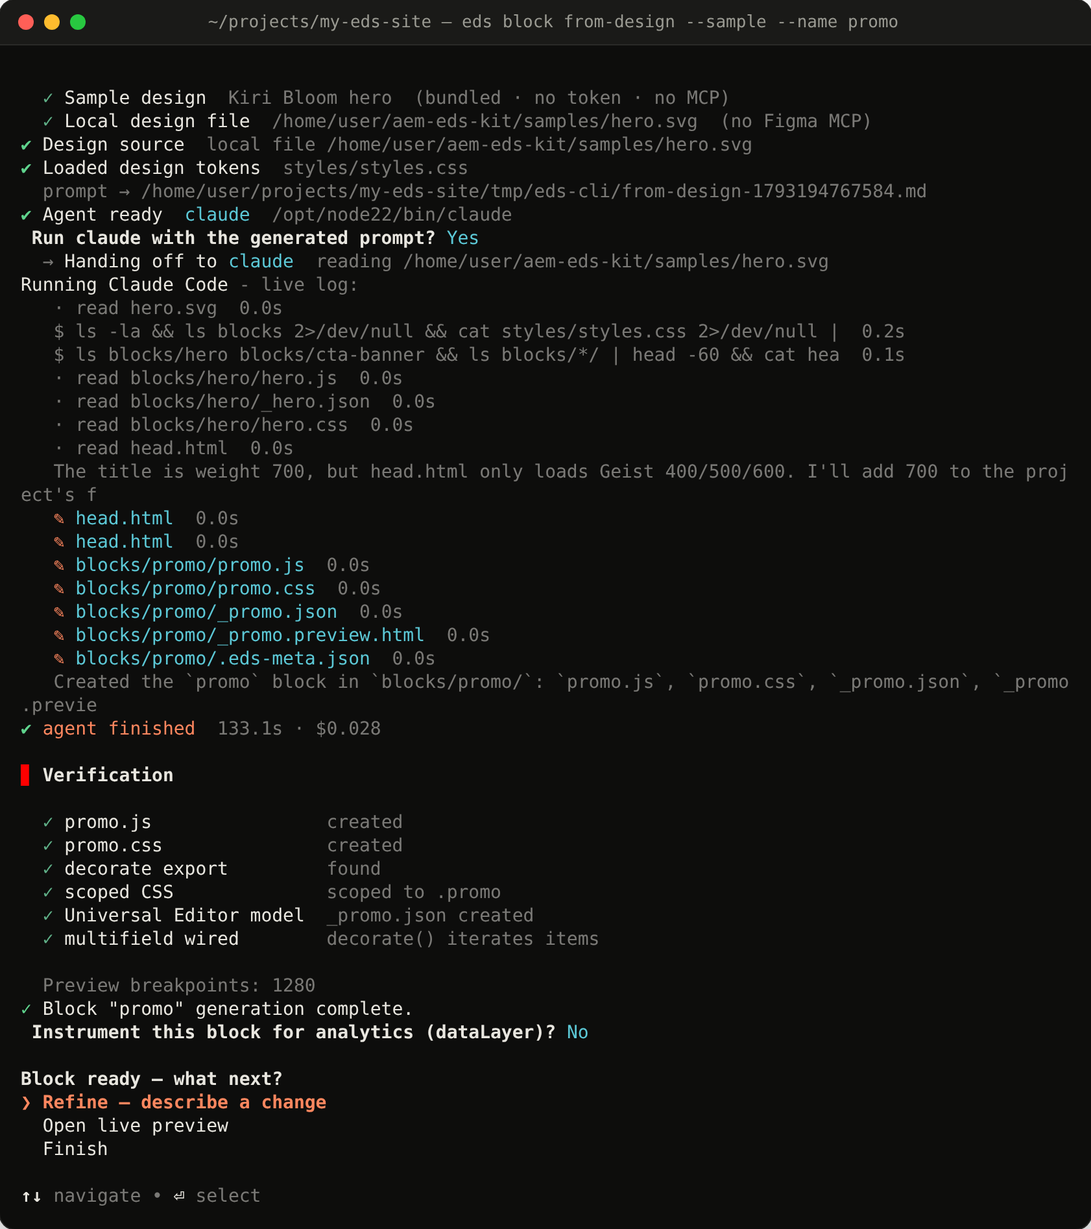
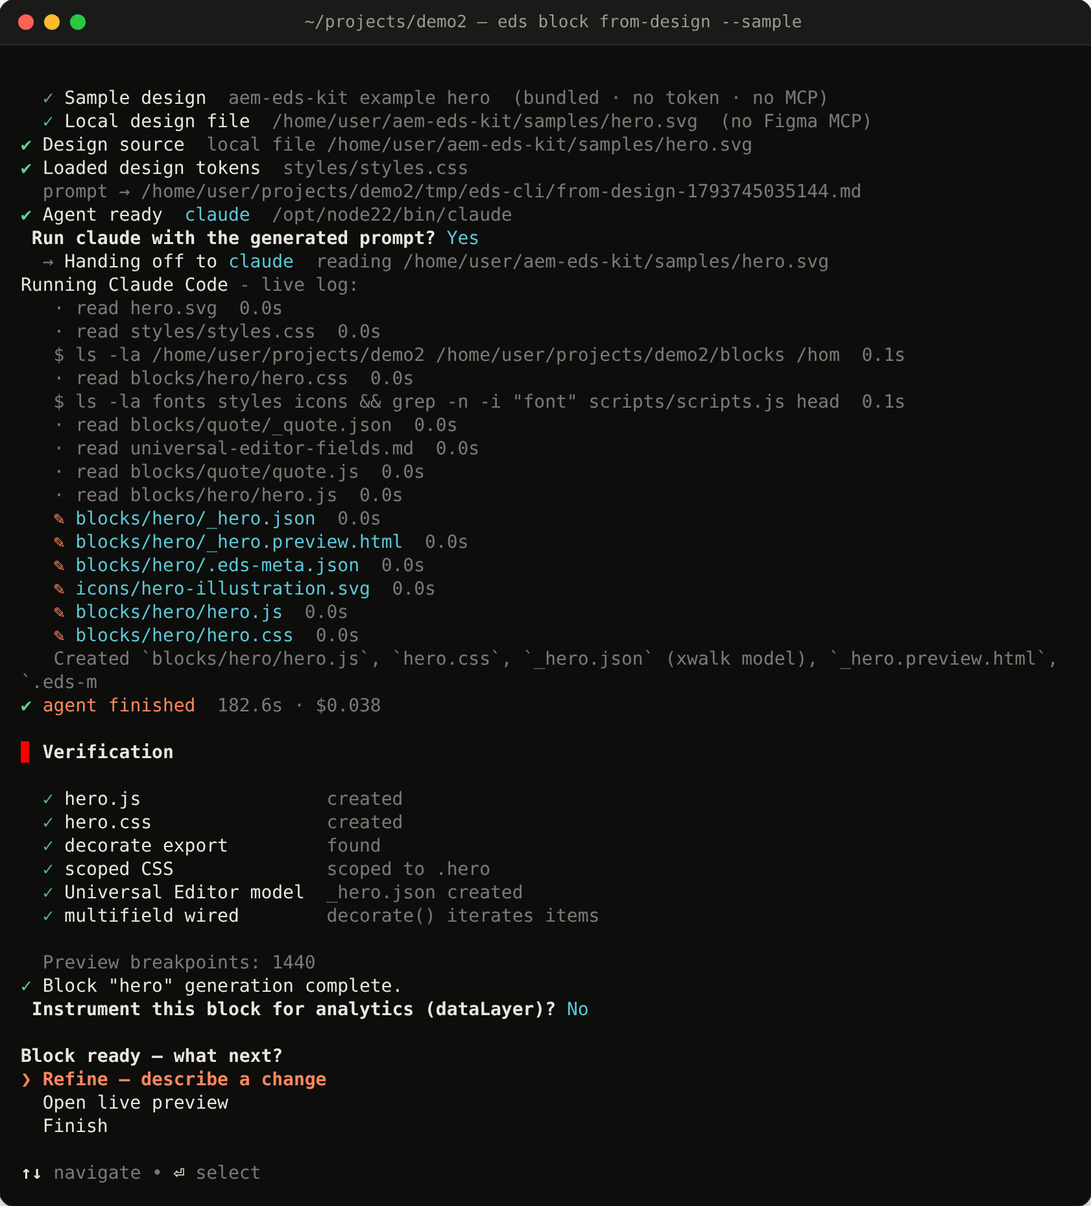
feat(sample): --sample is the example file's hero; new roadmap; README for npm (EDS-073)
- samples/hero.svg is now the hero of the project's own example design (the
  same copy, tokens and 1440px geometry as examples/figma-kit and
  site/example/), with role-named groups, instead of the third-party Kiri
  Bloom hero. The old file wasn't valid XML: its comment held `--sample`.
  Kiri Bloom is gone from the CLI, README, docs and launch kit; the README
  points at the example page / Figma plugin instead of the Kiri Bloom file.
- Roadmap (site + README) rewritten in plain words: Next / Then / Later.
- README: a tighter intro (web pages, eds new), a 4-line quick start, a
  contents row, a "new project" bullet; the from-design screenshot is
  re-recorded with the new sample.

Fixes #73

Claude-Session: https://claude.ai/code/session_01GUraVcAvpEc1ropGcZejs3

diff --git a/site/index.html b/site/index.html
@@ -45,7 +45,7 @@
         "description": "Open-source CLI for AEM Edge Delivery Services: start from the latest boilerplate, scaffold blocks, migrate classic AEM components, generate blocks from Figma, Framer or Google Stitch with Claude Code, Cursor, Codex or a local model, build Universal Editor models, add JSON-LD and dataLayer analytics, and generate page templates for DA, Google Docs, SharePoint and Universal Editor.",
         "url": "https://piotrgodycki.github.io/aem-eds-kit/",
         "downloadUrl": "https://www.npmjs.com/package/aem-eds-kit",
-        "softwareVersion": "0.4.56",
+        "softwareVersion": "0.4.57",
         "license": "https://opensource.org/licenses/MIT",
         "offers": { "@type": "Offer", "price": "0", "priceCurrency": "USD" },
         "author": { "@type": "Person", "name": "Piotr Godycki" },
@@ -493,20 +493,32 @@ If everything completes, tell the user they are set up and what to do next:
     <div class="container section">
       <div class="section-header">
         <span class="eyebrow">06 / Roadmap</span>
-        <h2 class="h2">Where it's heading.</h2>
+        <h2 class="h2">What's coming.</h2>
       </div>
       <div class="roadmap">
         <div class="road-col">
-          <span class="road-ver">Design sources</span>
-          <span class="road-desc">Figma (REST/MCP), Framer and Google Stitch (headless-Chromium scrape) are wired; next is a deeper scrape extractor (multi-breakpoint, variant detection) and a generic <code>eds setup</code> in place of <code>eds figma setup</code>. Canva/Sketch stay on the local-export path.</span>
+          <span class="road-ver">Next</span>
+          <ul class="road-list">
+            <li><strong>Previews that look like the design.</strong> The preview gets the design's real copy and images, so it matches 1:1 - the block itself still reads authored content.</li>
+            <li><strong>A self-check against the design.</strong> Render the block, compare it with the Figma frame or the page, and fix what differs in a second pass.</li>
+            <li><strong>Every breakpoint.</strong> Read the design at mobile, tablet and desktop widths, not just one.</li>
+          </ul>
         </div>
         <div class="road-col">
-          <span class="road-ver">Image-only designs</span>
-          <span class="road-desc">A plain PNG/JPG already works (or a local vision model); next is measuring it - a bitmap has no structured layout, so pixel-perfect is harder than from Figma or a scraped page.</span>
+          <span class="road-ver">Then</span>
+          <ul class="road-list">
+            <li><strong>Whole screens in one go.</strong> Every section of a frame or page becomes a block, plus the page that puts them together.</li>
+            <li><strong>Blocks that follow the design.</strong> When the design changes, update the existing block instead of regenerating it.</li>
+            <li><strong>Design tokens for the project.</strong> Figma Variables become the CSS custom properties in <code>styles.css</code>.</li>
+          </ul>
         </div>
         <div class="road-col">
-          <span class="road-ver">Tokens, sync &amp; CI</span>
-          <span class="road-desc">Design variables → CSS custom properties, incremental re-sync of a block (<code>--update</code>), a headless MCP client for CI/CD, plus <code>eds lighthouse</code>, <code>eds rum</code> and <code>eds migrate page</code>.</span>
+          <span class="road-ver">Later</span>
+          <ul class="road-list">
+            <li><strong>Deeper AEM migration.</strong> HTL logic ported to <code>decorate()</code>, CSS taken from the rendered page, whole pages migrated.</li>
+            <li><strong>Performance in the loop.</strong> Lighthouse and real-user data (RUM) checked for every block.</li>
+            <li><strong>Your idea here.</strong> <a href="https://github.com/piotrgodycki/aem-eds-kit/issues">Open an issue</a> - the roadmap follows what people need.</li>
+          </ul>
         </div>
       </div>
     </div>

diff --git a/site/changelog.html b/site/changelog.html
@@ -57,6 +57,7 @@
       <h2><a href="https://github.com/piotrgodycki/aem-eds-kit/commits/main">Unreleased</a> <span class="cl-date">on main, not yet on npm</span></h2>
       <h3>Changed</h3>
       <ul>
+        <li><strong><code>--sample</code> is the project's own example hero</strong> (<a href="https://github.com/piotrgodycki/aem-eds-kit/issues/73">EDS-073</a>), the same design as <code>examples/figma-kit</code> and <code>site/example/</code>, instead of the third-party "Kiri Bloom" hero (whose SVG wasn't valid XML: its comment held <code>--sample</code>). New roadmap (Next / Then / Later) on the site and in the README; the README opens with a 4-line quick start and a contents row.</li>
         <li><strong>Docs and site match the CLI again</strong> (<a href="https://github.com/piotrgodycki/aem-eds-kit/issues/63">EDS-063</a>). README screenshots of real runs (the menu, <code>eds new</code>, <code>block from-design</code>, <code>migrate component</code>, <code>block test</code> / <code>check</code>, the preview harness) and design-vs-block images; <code>docs.html</code> gains <code>block test</code> / <code>block check</code>, local models and configuration sections plus the missing flags; the site covers <code>eds new</code>, local models, AEMaaCS proxy / Classic UI migration and the real Figma REST limits.</li>
         <li><strong>CHANGELOG split into the versions published on npm</strong> (0.4.22, 0.4.25, 0.4.26, 0.4.48), worked out from the CHANGELOG inside each npm package. Version links point at npm; the GitHub release links never existed.</li>
       </ul>

diff --git a/src/commands/block/from-design.ts b/src/commands/block/from-design.ts
@@ -64,7 +64,7 @@ interface FromDesignOptions {
 	mcp?: boolean;
 	/** Ignore any cached design snapshot and re-fetch. */
 	refresh?: boolean;
-	/** Use the bundled sample design (Kiri Bloom hero) — no URL, token or MCP. */
+	/** Use the bundled sample design (the example file's hero) — no URL, token or MCP. */
 	sample?: boolean;
 	/** Scrape with a logged-in session (reuse a saved one, or capture it once). */
 	auth?: boolean;
@@ -310,7 +310,7 @@ export async function blockFromDesign(
 	let designUrl = figmaUrlArg;
 	let options = optionsArg;
 
-	// `--sample` (no design given) → use the bundled Kiri Bloom hero SVG: a
+	// `--sample` (no design given) → use the bundled hero SVG of the example file: a
 	// zero-config, token-free, MCP-free try-it that still runs the real pipeline.
 	if (!designUrl && options.sample) {
 		const sample = resolveBundledSample();
@@ -322,7 +322,7 @@ export async function blockFromDesign(
 		designUrl = sample;
 		options = { name: "hero", provider: "figma", ...options };
 		logger.info(
-			`  ${ui.icon.pass} Sample design  ${chalk.dim("Kiri Bloom hero")}  ${chalk.dim("(bundled · no token · no MCP)")}`,
+			`  ${ui.icon.pass} Sample design  ${chalk.dim("aem-eds-kit example hero")}  ${chalk.dim("(bundled · no token · no MCP)")}`,
 		);
 	}
 

diff --git a/site/docs.html b/site/docs.html
@@ -344,7 +344,7 @@
           <tr><td>--mcp</td><td>Force the Figma MCP adapter even when a REST token is set</td></tr>
           <tr><td>--auth</td><td>Scrape with a logged-in session (Framer / Stitch): log in once in a real browser, reuse it (stored owner-only in <code>~/.eds/auth/</code>)</td></tr>
           <tr><td>--auth-refresh</td><td>Force a fresh scrape login even if a session is saved</td></tr>
-          <tr><td>--sample</td><td>Use the bundled Kiri Bloom sample design (no URL, token or MCP)</td></tr>
+          <tr><td>--sample</td><td>Use the bundled sample design, the example file's hero (no URL, token or MCP)</td></tr>
           <tr><td>--refresh</td><td>Ignore the cached snapshot and re-fetch</td></tr>
           <tr><td>--serve</td><td>Auto-start the live preview (non-interactive runs only)</td></tr>
           <tr><td>--yes</td><td>Skip confirmation prompts</td></tr>

diff --git a/site/styles.css b/site/styles.css
@@ -350,6 +350,9 @@ button.card:focus-visible { outline: 2px solid var(--paper); outline-offset: 4px
 .road-col { padding: 28px 28px 0 0; display: flex; flex-direction: column; gap: 14px; }
 .road-ver { font-family: var(--mono); font-size: 20px; font-weight: 600; color: var(--accent); }
 .road-desc { font-size: 15px; color: var(--text-2); line-height: 1.6; }
+.road-list { list-style: none; margin: 0; padding: 0; display: flex; flex-direction: column; gap: 14px; font-size: 15px; color: var(--text-2); line-height: 1.6; }
+.road-list strong { display: block; color: var(--paper); font-weight: 600; }
+.road-list a { color: var(--accent); }
 
 /* ── FAQ ─────────────────────────────────────────────── */
 .faq { display: flex; flex-direction: column; border-top: 1px solid var(--line); }

diff --git a/src/bin/eds.ts b/src/bin/eds.ts
@@ -252,7 +252,10 @@ block
 		"Scrape with a logged-in session (Framer/Stitch) — login captured once, then reused",
 	)
 	.option("--auth-refresh", "Force a fresh scrape login even if a session is saved")
-	.option("--sample", "Use the bundled sample design (Kiri Bloom hero) — no URL, no token, no MCP")
+	.option(
+		"--sample",
+		"Use the bundled sample design (the example file's hero) — no URL, no token, no MCP",
+	)
 	.option("--serve", "Auto-start the live preview after generating (non-interactive runs only)")
 	.option("--yes", "Skip confirmation prompts")
 	.action(async (designUrl: string | undefined, options) => {

diff --git a/tests/lib/figma/design-source.test.ts b/tests/lib/figma/design-source.test.ts
@@ -52,7 +52,7 @@ describe("resolveDesign — adapter selection", () => {
 
 describe("serializeDesign — Figma node JSON → compact spec", () => {
 	const raw = {
-		name: "Kiri Bloom Kit",
+		name: "aem-eds-kit example",
 		nodes: {
 			"1:2": {
 				document: {

diff --git a/README.md b/README.md
@@ -12,13 +12,23 @@
 
 **Turn a design into an EDS block** - JS, CSS and a Universal Editor model - without leaving your terminal.
 
-`aem-eds-kit` gives you the `eds` command. Paste a design link - a Figma URL, or a Framer / Google Stitch page - and it hands the design to the AI agent you already use (Claude Code, Cursor or Codex, or a local model through Ollama / oMLX), which writes production-ready code straight into your repo. Figma is read through MCP or the REST API; Framer and Stitch render real HTML, so they're **scraped with headless Chromium** (no token needed). It also scaffolds blocks, previews them in your browser, and keeps your project healthy with a few quick audits.
+`aem-eds-kit` gives you the `eds` command. Paste a design link (a Figma frame, a Framer or Google Stitch page, or any web page) and it hands the design to the AI agent you already use: Claude Code, Cursor or Codex, or a local model through Ollama / oMLX. The agent writes the block straight into your repo. Figma is read through its REST API or MCP; web pages are **scraped with headless Chromium**, no token needed.
 
-It lives next to `@adobe/aem-cli` (your local dev server) and handles everything around it.
+It lives next to `@adobe/aem-cli` (your `aem up` dev server) and handles everything around it: new projects, blocks, migration from AEM, previews, checks and publishing.
+
+```bash
+npm install -g aem-eds-kit
+eds new my-site && cd my-site                     # the latest Adobe boilerplate
+eds block from-design "<design link>" --name hero  # design → blocks/hero/
+eds block preview hero                            # see it in the browser
+```
+
+**Contents:** [What it does](#what-it-does) · [Install](#install) · [Try it](#try-it-in-30-seconds-no-figma-account-no-token) · [Interactive mode](#interactive-mode) · [Commands](#commands) · [Figma](#how-figma-integration-works) · [Local models](#local-models-ollama-omlx) · [Configuration](#configuration) · [Roadmap](#roadmap)
 
 ## What it does
 
-- **Blocks from a design.** A Figma frame (REST or MCP), a Framer / Google Stitch page (scraped with headless Chromium) or a local PNG / SVG export becomes `blocks/<name>/`: JS, CSS, a Universal Editor model and a preview mock. Works with Claude Code, Cursor and Codex, or a [local model](#local-models-ollama-omlx) through Ollama or oMLX. Content Fragment blocks (`--source cf` / `mixed`) get an async, fetching `decorate()`.
+- **A new project in one command.** `eds new` clones Adobe's latest boilerplate (Document Authoring, Universal Editor or Commerce) without a GitHub login, and `eds init` sets it up for your authoring model.
+- **Blocks from a design.** A Figma frame (REST or MCP), a Framer / Google Stitch page or any other web page (scraped with headless Chromium), or a local PNG / SVG export becomes `blocks/<name>/`: JS, CSS, a Universal Editor model and a preview mock. Works with Claude Code, Cursor and Codex, or a [local model](#local-models-ollama-omlx) through Ollama or oMLX. Content Fragment blocks (`--source cf` / `mixed`) get an async, fetching `decorate()`.
 - **Migration from AEM.** `eds migrate component` turns a classic component's dialog into a block and a UE model, with no agent involved. It handles AEM as a Cloud Service proxy components (via `sling:resourceSuperType`, e.g. onto Core Components) and AEM 6.5 Classic UI `dialog.xml` files.
 - **Within Figma's limits.** One REST or MCP call per block, then a cache. REST calls are paced per minute across parallel runs. A rate limit stops with the reset time; it never spends your MCP budget behind your back. [The limits](#how-figma-integration-works).
 - **QA before review.** `eds block test` does visual regression on the block itself, plus a design↔render diff. `eds block check` covers content and a11y, including preview mocks nested deeper than real EDS markup. There are also `doctor`, loading and security audits.
@@ -89,23 +99,24 @@ eds block from-design --sample --name hero             # generate it with your A
 eds block preview hero                                  # see it live in the browser
 ```
 
-`--sample` uses a **bundled "Kiri Bloom" hero design**, read straight from disk - **no Figma token, no MCP call, no network**. (`--dry-run` needs no AI agent either - it just prints the prompt.)
+`--sample` uses the **hero of the project's example design**, bundled as an SVG and read straight from disk - **no Figma token, no MCP call, no network**. (`--dry-run` needs no AI agent either - it just prints the prompt.)
 
 A real run (Claude Code): the agent's live log, a verification pass over the files it wrote, then a menu to refine, preview or finish.
 
-<p align="center"><img src="https://raw.githubusercontent.com/piotrgodycki/aem-eds-kit/main/.github/assets/readme/cli-fd.png" alt="Terminal: eds block from-design --sample --name promo, showing the design source, the agent's live log, the files it wrote, a verification table and the refine / preview / finish menu" width="760"></p>
+<p align="center"><img src="https://raw.githubusercontent.com/piotrgodycki/aem-eds-kit/main/.github/assets/readme/cli-fd.png" alt="Terminal: eds block from-design --sample (the example hero), showing the design source, the agent's live log, the files it wrote, a verification table and the refine / preview / finish menu" width="760"></p>
 
 `eds block preview` serves the block at the design's own widths, with live reload:
 
 <p align="center"><img src="https://raw.githubusercontent.com/piotrgodycki/aem-eds-kit/main/.github/assets/readme/block-preview.webp" alt="Browser: the eds block preview harness showing the hero block at 1440 px with a breakpoint dropdown" width="100%"></p>
 
-Ready for the real thing? Point it at the official **Kiri Bloom AEM EDS Kit** training file in Figma:
+Ready for the real thing? The same example design exists as a page you can build every block from, and as a Figma file:
 
 ```bash
-eds block from-design \
-  "https://www.figma.com/design/vwlEKTFhcrlwuA8dRgN5SD/Kiri-Bloom-AEM-EDS-Kit-Example?node-id=0-1" \
-  --name hero
+# the example page (11 sections: hero, stats, cards, …) - read like a Framer / Stitch page
+eds block from-design "https://piotrgodycki.github.io/aem-eds-kit/example/" --name cards
 ```
+
+The Figma version is built by the plugin in [`examples/figma-kit`](https://github.com/piotrgodycki/aem-eds-kit/tree/main/examples/figma-kit) (run it once in Figma desktop); then pass any of its frame links.
 
 ## Interactive mode
 
@@ -403,7 +414,7 @@ eds block from-design "<framer-url>" --name hero    # Framer/Stitch → scraped 
 eds block from-design "<stitch-url>" --name hero --auth   # gated source → log in once, reuse the session
 eds block from-design "https://piotrgodycki.github.io/aem-eds-kit/example/" --name cards   # any web page, one section
 eds block from-design ./hero.svg --name hero        # from a local export (no network)
-eds block from-design --sample --name hero          # bundled Kiri Bloom sample (no token, no MCP)
+eds block from-design --sample --name hero          # bundled example hero (no token, no MCP)
 eds block from-design "<figma-url>" --dry-run       # just build the prompt
 ```
 
@@ -422,7 +433,7 @@ eds block from-design "<figma-url>" --dry-run       # just build the prompt
 | `--auth` | Scrape with a logged-in session (Framer/Stitch): log in once, reuse it |
 | `--auth-refresh` | Force a fresh scrape login even if a session is saved |
 | `--refresh` | Ignore the cached snapshot and re-fetch |
-| `--sample` | Use the bundled Kiri Bloom sample design (no URL, token or MCP) |
+| `--sample` | Use the bundled sample design, the example file's hero (no URL, token or MCP) |
 | `--serve` | Auto-start the live preview (non-interactive runs only) |
 | `--yes` | Skip confirmation prompts |
 
@@ -801,11 +812,21 @@ Tests use fixtures in `tests/fixtures/` - a sample EDS project and recorded Figm
 
 ## Roadmap
 
-- **Design sources** - Figma (REST/MCP), Framer and Google Stitch (headless-Chromium scrape) are wired; next is deepening the scrape extractor (multi-breakpoint capture, component/variant detection), a generic `eds setup` in place of `eds figma setup`, and an end-to-end run against a real Figma file ([EDS-020](https://github.com/piotrgodycki/aem-eds-kit/issues/20)). Canva/Sketch stay on the local-export path (canvas/image — not scrapeable).
-- **Migration** - dialogs (Touch UI and Classic UI) map deterministically today; next is HTL → `decorate()` and capturing CSS from the rendered page.
-- **Image-only designs** - a plain PNG/JPG already works (`from-design ./hero.png`, or a vision model with `--agent ollama --model qwen2.5vl:7b`); next is measuring it (no structured layout in a bitmap, so pixel-perfect is harder than from Figma or a scraped page).
-- **Tokens & sync** - design variables → CSS custom properties, and incremental re-sync of an existing block (`--update`).
-- **Headless & CI** - a direct MCP client (no agent needed) for CI/CD, plus `eds lighthouse`, `eds rum` and `eds migrate page`.
+**Next**
+- **Previews that look like the design.** The preview gets the design's real copy and images, so it matches 1:1; the block itself still reads authored content.
+- **A self-check against the design.** Render the block, compare it with the Figma frame or the page, and fix what differs in a second pass.
+- **Every breakpoint.** Read the design at mobile, tablet and desktop widths, not just one.
+
+**Then**
+- **Whole screens in one go.** Every section of a frame or page becomes a block, plus the page that puts them together.
+- **Blocks that follow the design.** When the design changes, update the existing block instead of regenerating it.
+- **Design tokens for the project.** Figma Variables become the CSS custom properties in `styles.css`.
+
+**Later**
+- **Deeper AEM migration.** HTL logic ported to `decorate()`, CSS taken from the rendered page, whole pages migrated.
+- **Performance in the loop.** Lighthouse and real-user data (RUM) checked for every block.
+
+Something missing? [Open an issue](https://github.com/piotrgodycki/aem-eds-kit/issues): the roadmap follows what people need.
 
 ## Trademarks & affiliation
 

diff --git a/docs/launch-kit.md b/docs/launch-kit.md
@@ -4,8 +4,9 @@ Draft copy for launching `aem-eds-kit`. One hero promise: **paste a design, get 
 production-ready EDS block.** Lead with `eds block from-design`; everything else is
 "batteries included."
 
-Official try-it design: **Kiri Bloom AEM EDS Kit Example** —
-https://www.figma.com/design/vwlEKTFhcrlwuA8dRgN5SD/Kiri-Bloom-AEM-EDS-Kit-Example?node-id=0-1
+Official try-it design: the project's **example design** — as a page,
+https://piotrgodycki.github.io/aem-eds-kit/example/ , and as a Figma file built by the
+plugin in `examples/figma-kit`.
 
 Zero-setup try-it (no Figma, no token): `eds block from-design --sample --name hero`.
 
@@ -17,11 +18,11 @@ Long-form tutorial for DEV.to (paste-ready, with front matter): [`launch/devto-t
 
 **Goal:** from a design to a live, authorable EDS block — on screen, in one take.
 **Setup before recording:** terminal in an EDS project (or `eds new demo`),
-browser ready, the Kiri Bloom Figma tab open. Keep it to ~60s.
+browser ready, the example Figma file (or the example page) open. Keep it to ~60s.
 
 | Time | On screen | Voiceover |
 |---|---|---|
-| 0:00–0:06 | Figma: Kiri Bloom hero frame | "This is a Figma hero. Normally, turning it into an Edge Delivery block is an afternoon of hand-coding." |
+| 0:00–0:06 | Figma: the example file's hero frame | "This is a Figma hero. Normally, turning it into an Edge Delivery block is an afternoon of hand-coding." |
 | 0:06–0:12 | Terminal, type `eds block from-design` | "With aem-eds-kit, it's one command. Paste the Figma link —" |
 | 0:12–0:22 | Wizard steps flash by (name: hero, content: Universal Editor, UE model: yes) | "— answer a few questions: name it, pick where the content comes from, generate the Universal Editor model." |
 | 0:22–0:34 | Live log streaming: get_design_context → writing hero.css / hero.js / _hero.json | "It reads the design once through MCP, then your own AI agent writes the code — JS, CSS, and the Universal Editor model — straight into your repo." |
@@ -30,7 +31,7 @@ browser ready, the Kiri Bloom Figma tab open. Keep it to ~60s.
 | 0:54–1:00 | Terminal: `npm i -g aem-eds-kit` | "npm install -g aem-eds-kit. Design in, EDS block out. Link's below." |
 
 **No Figma account? Zero-setup variant for 0:06–0:22:** type
-`eds block from-design --sample --name hero` — ships a bundled Kiri Bloom design,
+`eds block from-design --sample --name hero` — ships the example design's hero,
 read from disk. No token, no MCP, no network.
 
 ---
@@ -60,7 +61,7 @@ Try it with zero setup (no Figma account, no token):
     eds block from-design --sample --name hero
     eds block preview hero
 
-Or point it at the official training file, the Kiri Bloom AEM EDS Kit example in Figma.
+Or point it at the example page (https://piotrgodycki.github.io/aem-eds-kit/example/) or any Figma frame.
 
 Design decisions I'd love feedback on: it fetches the design once into a cached
 snapshot (so retries never re-fetch), defaults to the fastest model with a
@@ -84,7 +85,7 @@ Try it with zero setup:
   eds block from-design --sample --name hero
   eds block preview hero
 
-No Figma token, no MCP call — it ships with the Kiri Bloom sample design. Point it at
+No Figma token, no MCP call — it ships with the example design's hero. Point it at
 real Figma when you're ready.
 
 Design in. EDS block out. 🌱
@@ -103,9 +104,9 @@ on the Figma MCP limit (set a token and it uses REST instead). It sits next to
 component migration, a width-honest preview gallery, and QA (`eds block test` visual
 regression, `eds block check` content/a11y, `eds audit loading|security`).
 
-Zero-setup try (no token): `eds block from-design --sample --name hero` uses a bundled
-Kiri Bloom design. There's also the official Kiri Bloom AEM EDS Kit example in Figma to
-try the full path.
+Zero-setup try (no token): `eds block from-design --sample --name hero` uses the bundled
+example hero. The full example page (https://piotrgodycki.github.io/aem-eds-kit/example/)
+works too, one block per section.
 
 Feedback very welcome — especially on the UE model mapping and the content-source
 options (Document Authoring / UE / Content Fragment).

diff --git a/CHANGELOG.md b/CHANGELOG.md
@@ -7,6 +7,11 @@ adheres to [Semantic Versioning](https://semver.org/spec/v2.0.0.html).
 ## [Unreleased]
 
 ### Changed
+- **`--sample` is the project's own example hero** (EDS-073), the same design
+  as `examples/figma-kit` and `site/example/`, instead of the third-party
+  "Kiri Bloom" hero (whose SVG wasn't valid XML: its comment held `--sample`).
+  New roadmap (Next / Then / Later) on the site and in the README; the README
+  opens with a 4-line quick start and a contents row.
 - **Docs and site match the CLI again** (EDS-063). README screenshots of real
   runs (the menu, `eds new`, `block from-design`, `migrate component`,
   `block test` / `check`, the preview harness) and design-vs-block images;
